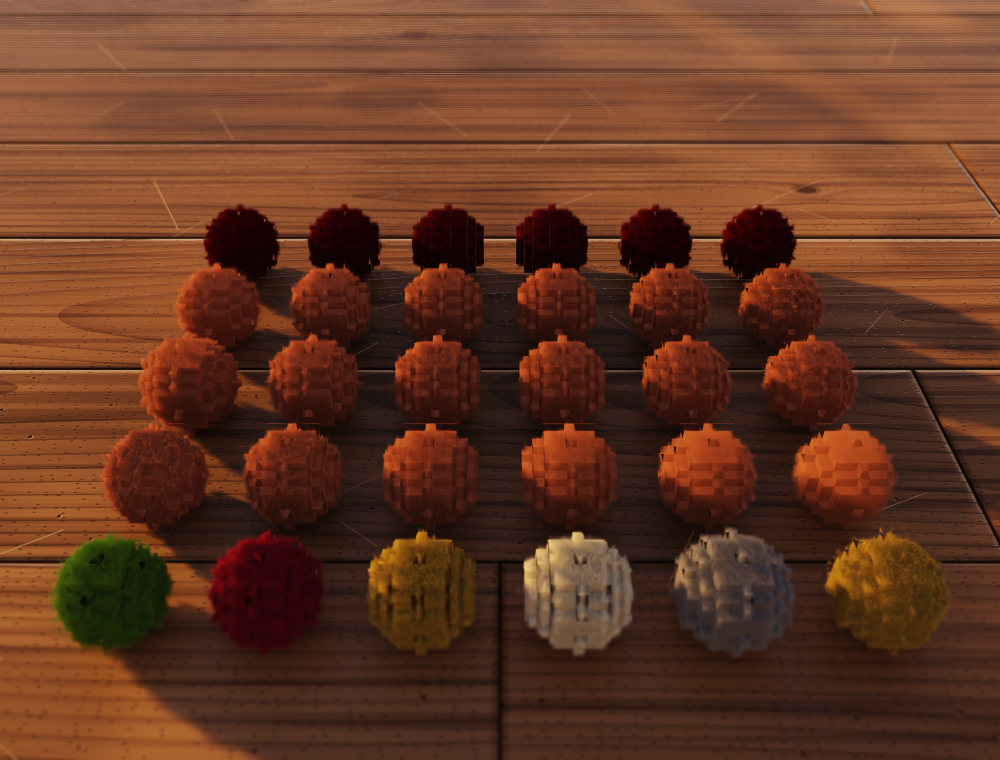
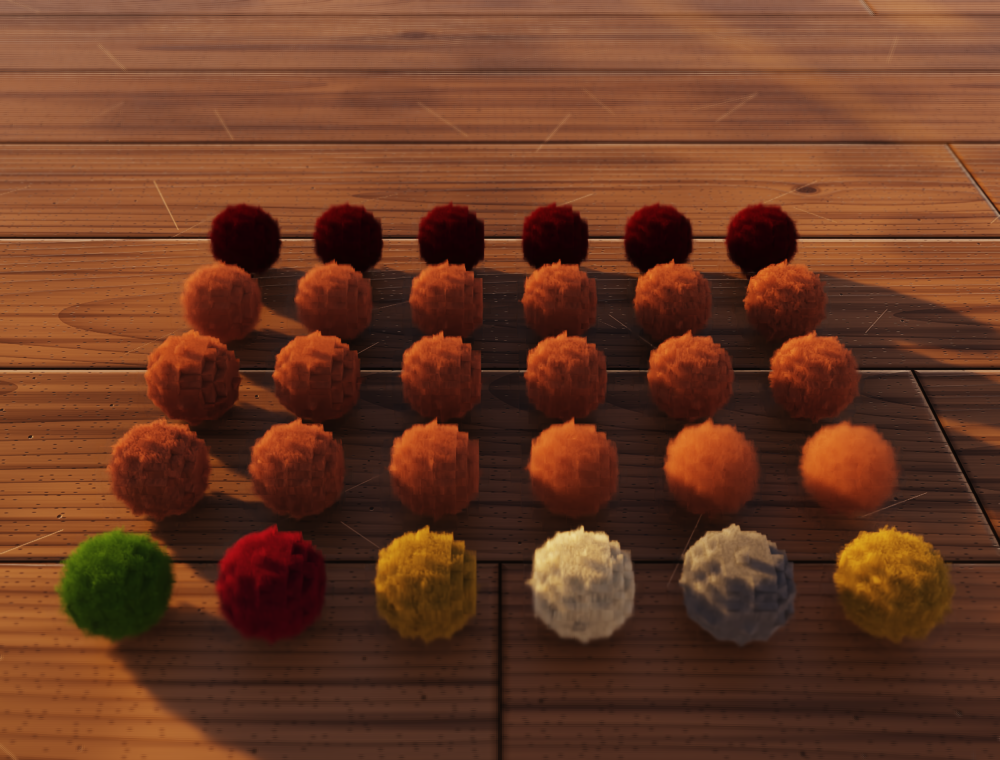
0.6.1: rounder fuzz, and the tests pass on macOS and Linux again
- Fuzz thins towards the nearest air (the renderer now gets each fuzz voxel's
  distance to it): a block is one soft lump, a stepped ball comes out round, a
  ledge seen edge-on no longer shows a white slit, and a one-voxel coat no
  longer shows its core as bright lines along the steps. Needs the 0.6.1
  renderer zip. A GPU test covers the ledge.
- A closed editor window gives up its keyboard shortcuts. On macOS closed
  windows live on in the menu bar, so after a few of them (the tests open
  many) shared keys became ambiguous and none of them worked.
- The slice edge-pan test presses inside the layer whatever the canvas size.
- CI: the Linux test job stops after 40 minutes (it hung after the tests until
  GitHub's six hours since 0.5.0), and a hang prints every thread's stack.
- The fuzz sweep figure is rendered with the new renderer.

diff --git a/editor/tests/test_fuzz.py b/editor/tests/test_fuzz.py
@@ -7,6 +7,8 @@ import sys
 import unittest
 from pathlib import Path
 
+import numpy as np
+
 EDITOR = Path(__file__).resolve().parents[1]
 sys.path.insert(0, str(EDITOR))
 import sandbox  # noqa: E402,F401  the user's own editor and settings are left alone
@@ -58,6 +60,30 @@ class FuzzRenderTests(unittest.TestCase):
         self.assertGreater(r, 1.6 * b, (r, g, b))
         redness = lambda x: (lambda p: p[0] - p[2])(patch(e, rgb, 0, 35, (x, 8, 2)))
         self.assertLess(redness(19), 0.8 * redness(7), "a fur tuft should be softer, its edge thinner, than matte")
+
+    def test_a_ledge_seen_edge_on_shows_no_slit(self):
+        """A step of plush seen level with its ledge: a ray skimming the ledge meets the pile under the next step
+        up (the fuzz field), not the sky behind the block, which once showed as a white slit along the ledge."""
+        e = VoxelEditor()
+        self.addCleanup(e.close)
+        e.new_model(40, 24, 16)
+        red, plush = e.model.nearest_slot((200, 40, 40)), BY_NAME["plush"]["id"]
+        e.paint_box([6, 4, 0], [33, 19, 5], red, plush)  # the lower step
+        e.paint_box([6, 11, 6], [33, 19, 11], red, plush)  # the upper step, set back
+        # the eye half a voxel above the ledge (the orbit's centre is 8 voxels up, the camera 1.45 x 40 voxels
+        # off), so rays come in through the ledge's top at a glance
+        pitch = -np.degrees(np.arcsin(1.5 / (1.45 * 40)))
+        rgb = picture(e, 0, pitch, "Day", samples=256)
+        engine = e._engine
+        eye, forward, right, up = engine.orbit_camera(0, pitch)
+        point = np.asarray(engine.origin[:3]) + np.asarray((20, 11, 6)) / 32 - eye  # the ledge's back edge
+        height, width = rgb.shape[:2]
+        fov = np.tan(np.radians(22.5))
+        x = int(((point @ right) / ((point @ forward) * fov * width / height) + 1) / 2 * width)
+        y = int((1 - (point @ up) / ((point @ forward) * fov)) / 2 * height)
+        band = rgb[y - 6:y + 7, x - 40:x + 41]  # rows across the ledge line, over the middle of the block
+        rows = band[..., 0].mean(axis=1) - band[..., 2].mean(axis=1)
+        self.assertGreater(rows.min(), 0.15, f"a row along the ledge is not red but sky: {rows.round(2)}")
 
 
 if __name__ == "__main__":

diff --git a/editor/tests/test_keys_zoom_smear.py b/editor/tests/test_keys_zoom_smear.py
@@ -179,16 +179,20 @@ class SliceZoomTests(unittest.TestCase):
         from PySide6.QtTest import QTest
         self.doc.set_tool("attach")
         self.view.depth_box.setValue(10)
-        self.canvas.zoom_at(QtCore.QPointF(10, 150), 10)
-        start = QtCore.QPoint(20, 150)
+        # the fitted layer is a thin band across the canvas's middle: a fixed row (150) lay just below it where
+        # the canvas came out a little lower (250 pixels on Linux and macOS), so no stroke began
+        y = self.canvas.height() // 2
+        self.canvas.zoom_at(QtCore.QPointF(10, y), 10)
+        start = QtCore.QPoint(20, y)
         QTest.mousePress(self.canvas, QtCore.Qt.MouseButton.LeftButton, pos=start)
+        self.assertIsNotNone(self.canvas.stroke_button)
         before = QtCore.QPointF(self.canvas.pan)
-        QTest.mouseMove(self.canvas, QtCore.QPoint(self.canvas.width() + 80, 150))
+        QTest.mouseMove(self.canvas, QtCore.QPoint(self.canvas.width() + 80, y))
         QTest.qWait(200)
         self.assertLess(self.canvas.pan.x(), before.x())  # panned towards the cursor
         QTest.mouseRelease(self.canvas, QtCore.Qt.MouseButton.LeftButton,
-                           pos=QtCore.QPoint(self.canvas.width() + 80, 150))
-        u, v = self.canvas.cell_at(QtCore.QPointF(self.canvas.width() - 1, 150))
+                           pos=QtCore.QPoint(self.canvas.width() + 80, y))
+        u, v = self.canvas.cell_at(QtCore.QPointF(self.canvas.width() - 1, y))
         self.assertTrue(self.doc.model.colour[v, 10, :u + 1].all() or self.doc.model.colour[:, 10, u].any())
 
     def test_leaving_clears_the_status_bar(self):

diff --git a/editor/qtui/window.py b/editor/qtui/window.py
@@ -627,4 +627,8 @@ class EditorWindow(QtWidgets.QMainWindow):
         self.render_view.close_engine()
         self.edit_view.close()
         self.dock_manager.deleteLater()
+        # its keys are the application's (_action): a closed window that lives on (macOS's menu bar keeps its
+        # actions) would make every key it shares with a newer window ambiguous, and Qt then runs neither
+        for action in self.key_actions.values():
+            action.setShortcuts([])
         super().closeEvent(event)

diff --git a/editor/docs/guide.md b/editor/docs/guide.md
@@ -280,7 +280,7 @@ Most families come as a ladder, so a surface can be one step glossier or a glow 
 
 **Gas** (smoke, steam, mist, glowing gas, flame) is a volume, not a surface: light passes into it and scatters inside, so mist glows where a lantern shines into it and smoke casts a soft shadow. The voxel colour is how a thick body of the gas looks: white steam stays white however deep it is, dark smoke stays dark. Where two different gases touch, each keeps its own look. **density** is how many voxels light travels on average before it scatters (low: thick smoke), **anisotropy** how much it scatters forward (mist and steam glow toward the sun), and **emission** makes it glow all through; the flame also flickers. Solids inside or under gas keep their faces. Besides mist there are four more levels of fog: **faint haze** and **haze** for depth over a whole diorama, **light mist**, **fog** and **thick fog**, which hides what is more than a dozen voxels in.
 
-**Fuzz** (moss, felt, fur, wool, dust) is a soft pile of fibres in the voxel colour. It is opaque in its body, but its edge is soft and broken, so a ball of it has a fuzzy outline and its corners round off. Paint a layer or two of it over a hard core: the core shows through where the pile is thin, so a dark core under fur gives it dark roots. Its edges and corners soften the same way as its faces, so a block of it reads as one soft cube and a small tuft on its own as a soft lump. The fibres stand out of the faces in tufts that lean their own ways, so fur seems to flow. Fuzz reads four fields: **density** is how dense the pile is (low: dense), **sss** is its reach (how deep below the face the softness goes, in voxels, at most about one), **roughness** is its clump (0 an even pile like felt, 1 tufts with gaps like moss and fur), and **sheen** is the fibres' shine where light grazes.
+**Fuzz** (moss, felt, fur, wool, dust) is a soft pile of fibres in the voxel colour. It is opaque in its body, but its edge is soft and broken, so a ball of it has a fuzzy outline and its corners round off. The pile thins towards the nearest air, however you look at it, so a block of it reads as one soft lump with rounded edges, a stepped ball as a round one, and a small tuft on its own as a soft blob. Paint a layer or two of it over a hard core: the core shows through where the pile is thin, so a dark core under fur gives it dark roots. A single layer over a curved core is thin at every step, so pick a core a shade darker than the pile, or none: short piles such as felt look best all through. The fibres stand out of the faces in tufts that lean their own ways, so fur seems to flow. Fuzz reads four fields: **density** is how dense the pile is (low: dense), **sss** is its reach (how deep below the surface the softness goes, in voxels, at most about one), **roughness** is its clump (0 an even pile like felt, 1 tufts with gaps like moss and fur), and **sheen** is the fibres' shine where light grazes.
 
 <img src="figures/current_gas.png" width="480" alt="Mist, a fire with smoke and a glowing red haze at night">
 

diff --git a/editor/README.md b/editor/README.md
@@ -40,11 +40,12 @@ look (a ray passes from the one into the other). The fog comes in six levels,
 faint haze (64) through thick fog (4).
 Fuzz (moss, felt, fur, wool, dust: group `fuzz`, the renderer's kind 9) is a
 soft pile of fibres: a ray that enters meets a fibre after a free flight, the
-fibres thin near the face and reach full **density** sss voxels below it (the
-reach, at most about a voxel, so the pile thins alike below a face and beside one), standing out in tufts that lean their own ways, broken as far as
-**roughness** says (the clump), shining by **sheen**. Fuzz faces carry which
-edges are open to air, so the pile thins there too: a block is one soft cube, a
-ball's steps soften. Paint it over a hard core; the core shows where it is thin.
+fibres thin towards the nearest air and reach full **density** sss voxels in (the
+reach, at most about a voxel), standing out in tufts that lean their own ways, broken as far as
+**roughness** says (the clump), shining by **sheen**. The renderer gets each fuzz
+voxel's distance to the air with the model, so a block is one soft lump, a ball's
+steps round off, and a ledge seen edge-on stays solid. Paint it over a hard core;
+the core shows where it is thin.
 `..\palette\build_fuzz_sweep.py` renders the fuzz fields.
 `..\palette\build_material_test.py` builds `assets\material_test.vx2` (one
 sphere per material) and renders it to `outputs\material_test.png`;
